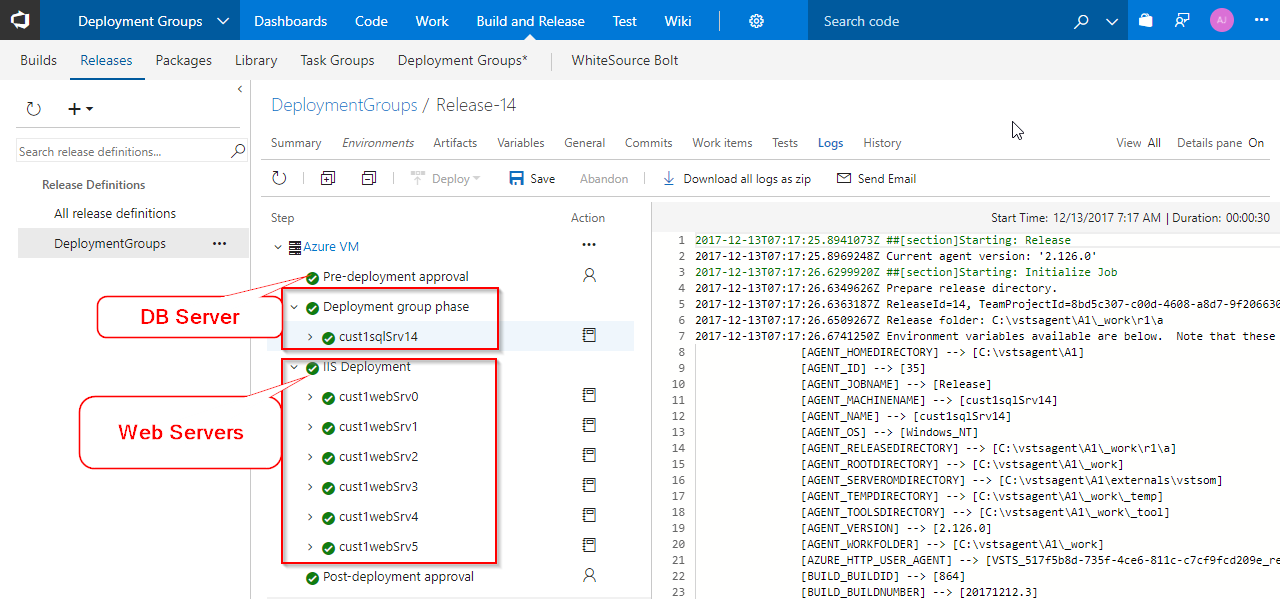
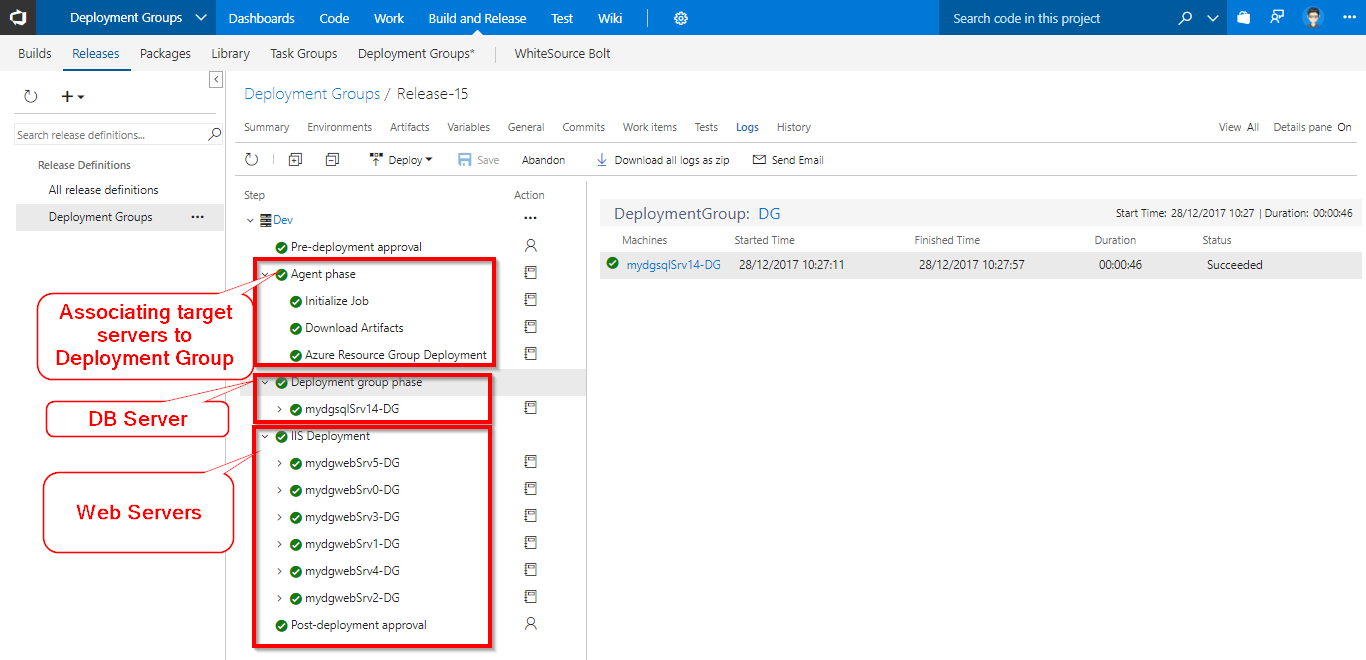
updated content

diff --git a/deploymentgroups/readme.md b/deploymentgroups/readme.md
@@ -48,6 +48,18 @@ Since the connections are not established during project provisioning, we will m
 
    <img src="images/endpoint.png"> 
 
+2. Create an endpoint of type **Team Foundation Server/Team Services**. Select **Token based authentication** and specify the following details-
+
+   - **Connection Name**: Give any name
+
+   - **Connection Url**: Your VSTS account Url
+
+   - **Personal Access Token**: Your VSTS Personal Access Token
+ 
+   We will use this endpoint later in the release because agent registration with deployment group requires access to your VSTS project.
+
+   <img src="images/vsts.png"> 
+
 ## Exercise 2: Creating Deployment Group
 
 [Deployment Groups](https://docs.microsoft.com/en-us/vsts/build-release/concepts/definitions/release/deployment-groups/) in VSTS make it easier to organize the servers that you want to use to host your app. A deployment group is a collection of machines with a VSTS agent on each of them. Each machine interacts with VSTS to coordinate deployment of your app.
@@ -80,6 +92,12 @@ A [Phase](https://docs.microsoft.com/en-us/vsts/build-release/concepts/process/p
 2. You will see tasks grouped under **Agent phase**, **Database deploy phase** and **IIS Deployment phase**.
 
    <img src="images/phases.png"> 
+
+   - **Agent Phase**: In this phase , we will associate the target servers to the deployment group. The below task is used-
+
+     - **Azure Resource Group Deployment**: This task will automate the configuration of the deployment group agents to the web and db servers.
+
+       <img src="images/agent_phase.png">
 
    - **Database deploy phase**: In this phase, we use [**SQL Server Database Deploy**](https://github.com/Microsoft/vsts-tasks/blob/master/Tasks/SqlDacpacDeploymentOnMachineGroup/README.md) task to deploy [**dacpac**](https://docs.microsoft.com/en-us/sql/relational-databases/data-tier-applications/data-tier-applications) file to the DB server.
  
@@ -134,7 +152,11 @@ A [Phase](https://docs.microsoft.com/en-us/vsts/build-release/concepts/process/p
 
     <img src="images/connect_lb.png">
 
-6. Click **Save** and **Create release**.
+6. Go to **Variables** tab and update the **DefaultConnectionString** value with **Your SQL_DNS name**.
+
+   <img src="images/release_variable.png">
+
+7. Click **Save** and **Create release**.
 
 
    <img src="images/save.png">
@@ -144,14 +166,14 @@ A [Phase](https://docs.microsoft.com/en-us/vsts/build-release/concepts/process/p
    <img src="images/create_release.png">
 
 
-7. Once the release is complete, you will see the deployments are done to DB and Web Servers. Go to Logs to see the summary.
+8. Once the release is complete, you will see the deployments are done to DB and Web Servers. Go to Logs to see the summary.
 
    <img src="images/release_summary.png">
 
 
    >In one of your web servers, go to http://localhost:80/ to access the application. 
 
-8. The deployed web application is displayed.
+9. The deployed web application is displayed.
 
    <img src="images/application.png">
 
